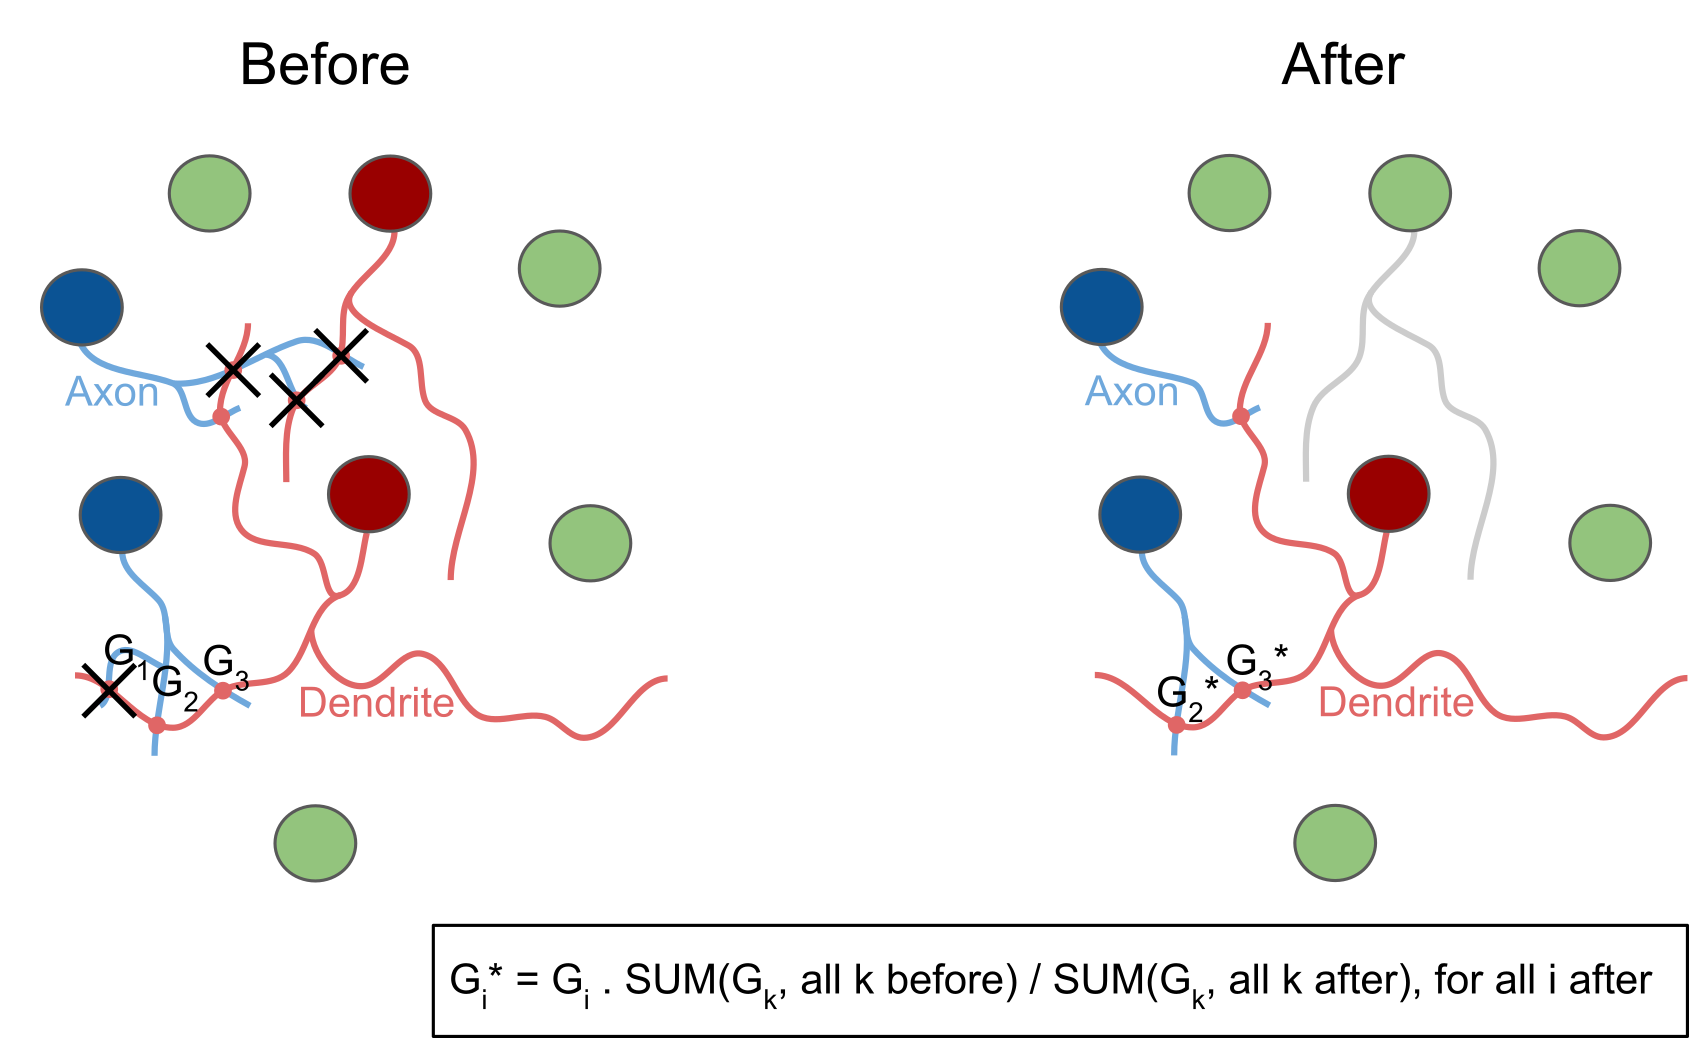
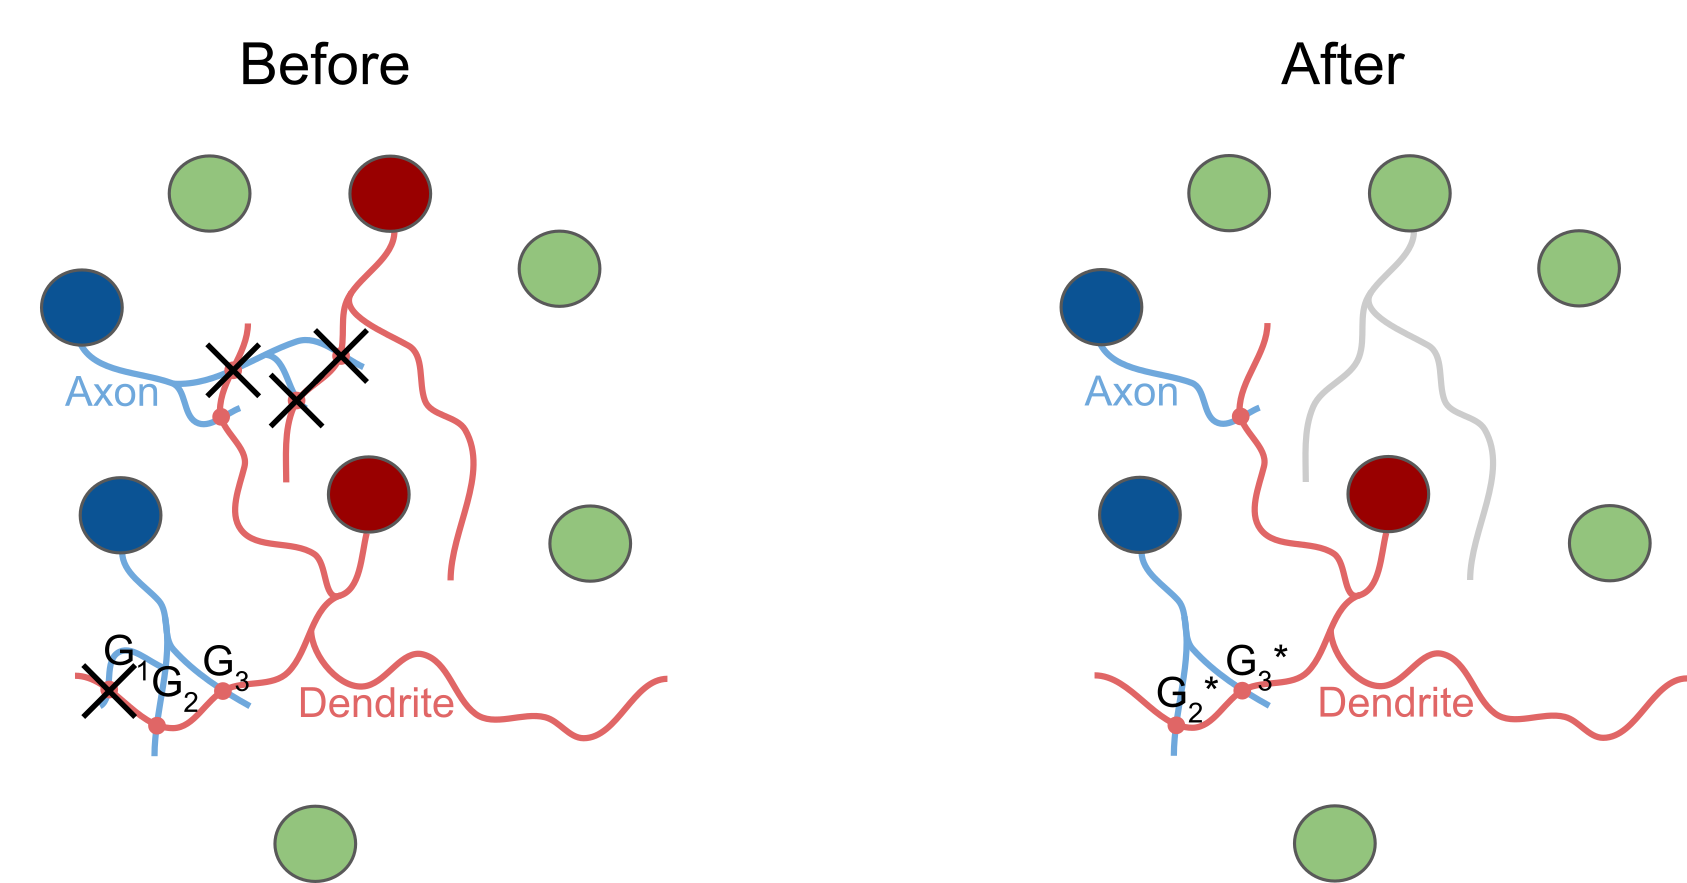
Updated documentation

diff --git a/pipeline/connectome_manipulation/README.md b/pipeline/connectome_manipulation/README.md
@@ -3,9 +3,9 @@
 | File | Description | |
 | :-- | :-- | :-- |
 | __/no_manipulation.py__ | __No manipulation__ <br> This is just a dummy manipulation function performing no manipulation at all. This function is intended as a control condition to run the manipulation pipeline without actually manipulating the connectome. |  |
-| __/conn_removal.py__ | __Connection removal__ <br> Removes a certain percentage of connections (i.e., all synapses belonging to a connection) between selected groups of neurons (layers, m-types, ...), optionally removing only connections within a certain range of #synapses/connection. | <img src=../../images/conn_removal.png width=800 /> |
-| __/syn_removal.py__ | __Synapse removal__ <br> Removes a certain percentage of synapses between selected groups of neurons (layers, m-types, ...), resulting in (a) reduced #synapses/connection or (b) removed connections (i.e., all synapses of a connection removed). | <img src=../../images/syn_removal.png width=800 /> |
-|                     | Optionally: <br> Keeping connections (i.e., at least 1 synapse/connection kept). | <img src=../../images/syn_removal_keepConn.png width=800 /> |
-|                     | Optionally: <br> Re-scaling gSyns (conductances) of remaining synapses to keep sum of gSyns per connection constant (unless whole connection is removed). | <img src=../../images/syn_removal_scaleG.png width=800 /> |
-| __/syn_prop_alteration.py__ | __Synapse property alteration__ <br> Alters values of certain synapse properties (e.g., conductance, delay, ...) of a certain percentage of synapses between selected groups of neurons (layers, m-types, ...) by setting them to a new absolute value, relative scaling, randomizing, ... <br> Example: Afferent section pos/ID set to 0 (= soma) | <img src=../../images/syn_prop_alter.png width=800 /> |
-| __/syn_addition.py__ | __Synapse addition__ <br> Adds a certain number of synapses (e.g., total percentage, percentage per connection, ...) to existing connections between selected groups of neurons (layers, m-types, ...) by (i) duplicating existing synapses, (ii) deriving from existing synapses (duplicating and randomizing certain properties based on a model) [not yet implemented], or (iii) loading from an external connectome [not yet implemented]. <br> Optionally: Re-scaling gSyns (conductances) to keep sum of gSyns per connection constant. | <img src=../../images/syn_add.png width=800 /> |
+| __/conn_removal.py__ | __Connection removal__ <br> Removes a certain percentage of connections (i.e., all synapses belonging to a connection) between selected groups of neurons (layers, m-types, ...), optionally removing only connections within a certain range of #synapses/connection. | <img src=../../images/conn_removal.png /> |
+| __/syn_removal.py__ | __Synapse removal__ <br> Removes a certain percentage of synapses between selected groups of neurons (layers, m-types, ...), resulting in (a) reduced #synapses/connection or (b) removed connections (i.e., all synapses of a connection removed). | <img src=../../images/syn_removal.png /> |
+|                     | Optionally: <br> Keeping connections (i.e., at least 1 synapse/connection kept). | <img src=../../images/syn_removal_keepConn.png /> |
+|                     | Optionally: <br> Re-scaling conductances $G^*$ of remaining synapses to keep sum of conductances per connection constant (unless whole connection is removed). <br> $$G_i^* = G_i \cdot \frac{\sum_{all~k~Before} G_k}{\sum_{all~k~After} G_k}, for~all~i~After$$ | <img src=../../images/syn_removal_scaleG.png /> |
+| __/syn_prop_alteration.py__ | __Synapse property alteration__ <br> Alters values of certain synapse properties (e.g., conductance, delay, ...) of a certain percentage of synapses between selected groups of neurons (layers, m-types, ...) by setting them to a new absolute value, relative scaling, randomizing, ... <br> Example: Afferent section pos/ID set to 0 (= soma) | <img src=../../images/syn_prop_alter.png /> |
+| __/syn_addition.py__ | __Synapse addition__ <br> Adds a certain number of synapses (e.g., total percentage, percentage per connection, ...) to existing connections between selected groups of neurons (layers, m-types, ...) by (i) duplicating existing synapses, (ii) deriving from existing synapses (duplicating and randomizing certain properties based on a model) [not yet implemented], or (iii) loading from an external connectome [not yet implemented]. <br> Optionally: Re-scaling gSyns (conductances) to keep sum of gSyns per connection constant. | <img src=../../images/syn_add.png /> |

diff --git a/README.md b/README.md
@@ -30,7 +30,7 @@ The connectome manipulation pipeline is illustrated in Figure 1 and consists of 
 
 * __Connectome manipulator__\
   Depending on the config, applies one or a sequence of manipulations to a given SONATA connectome, and writes the manipulated connectome to a new SONATA file. All manipulations are separately implemented in sub-modules and can be easily extended.\
-  Details can be found in the corresponding README file: [/pipeline/connectome_manipulation/README.md](pipeline/connectome_manipulation/README.md)
+  Details can be found in the corresponding README file: [/pipeline/connectome_manipulation/README.md](pipeline/connectome_manipulation/)
 
 * __Model building__\
   Depending on the config, builds a model from a given connectome and write the model to a file to be loaded and used by some manipulations requiring a model (e.g., for model-based rewiring based on given connection probabilities). All models are separately implemented in sub-modules and can be easily extended.
